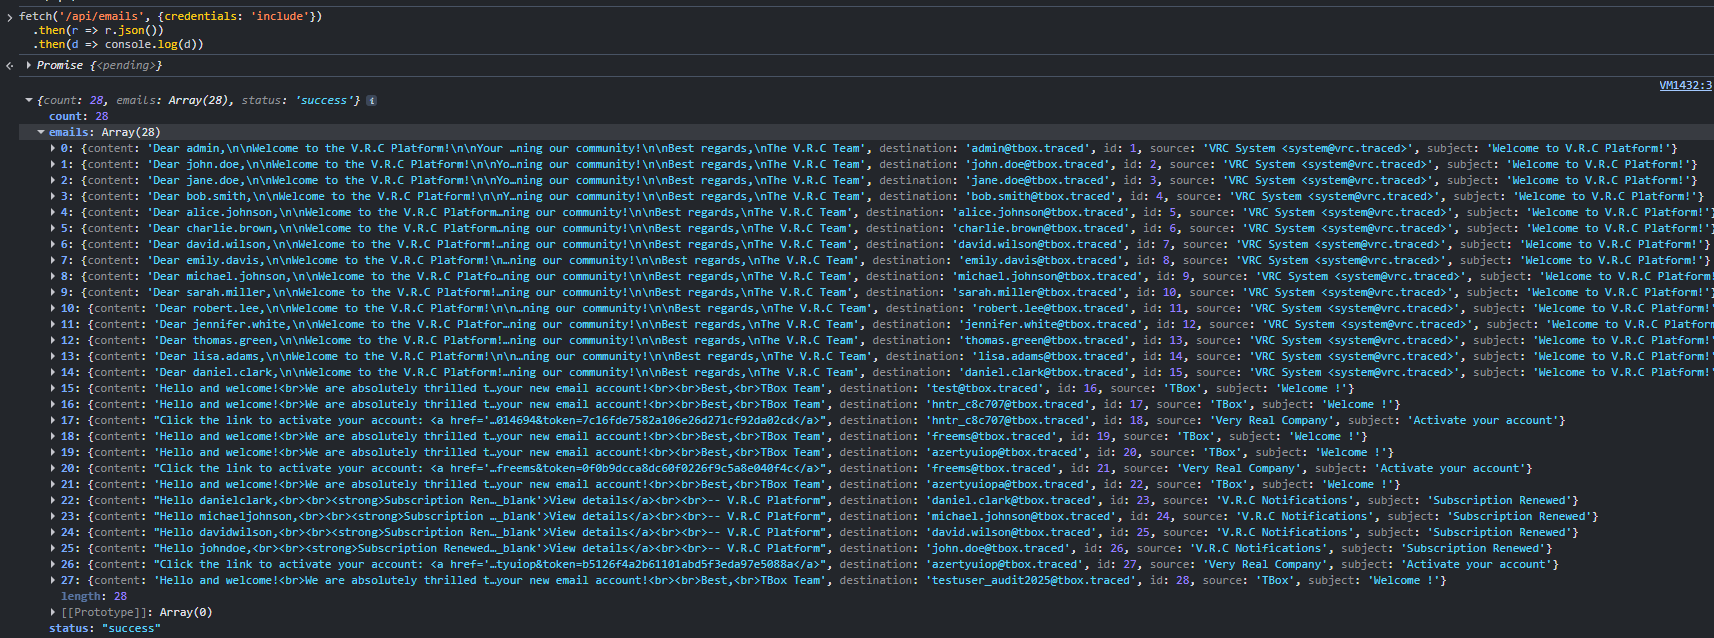
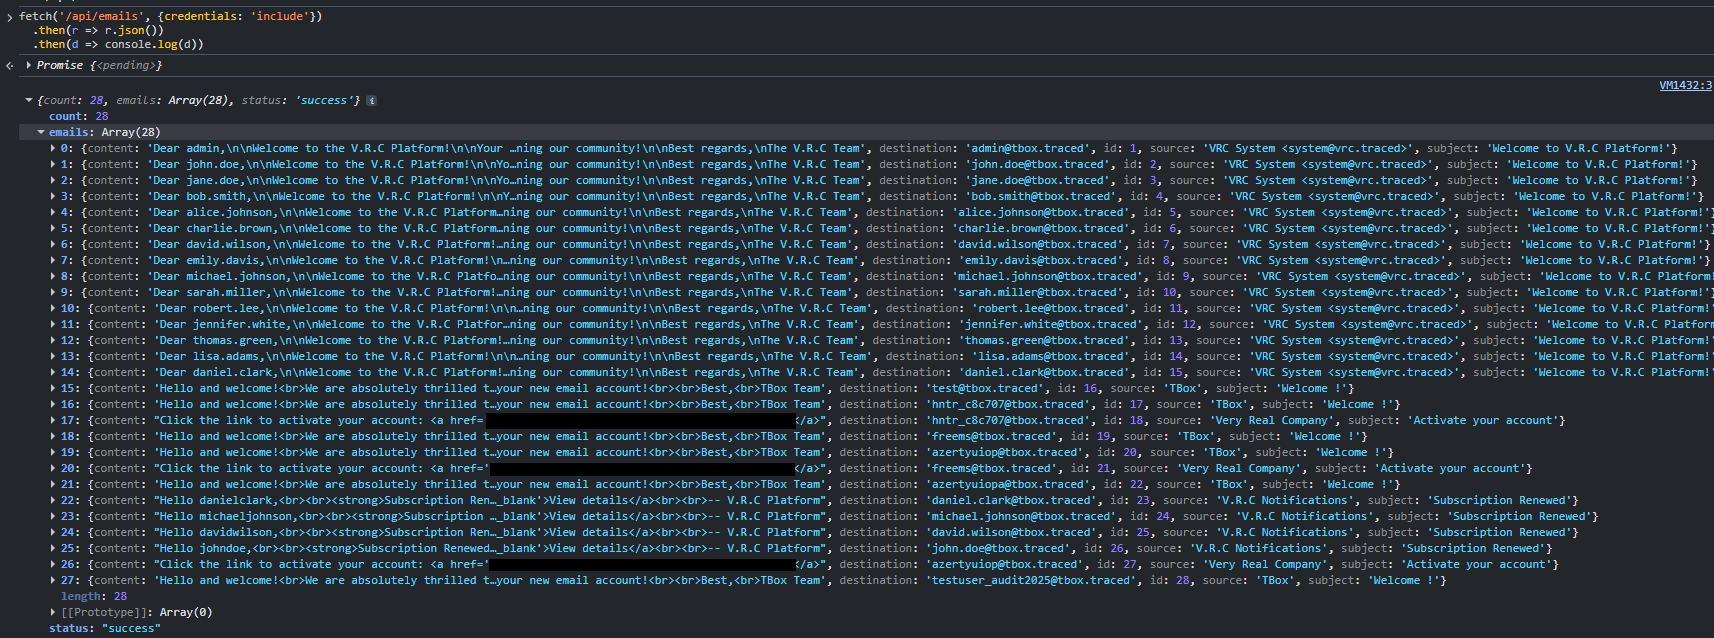
docs: restore webmail evidence and clarify unauthenticated admin compromise

Changed region(s): [[0.2783, 0.6254, 0.4638, 0.685], [0.2783, 0.8636, 0.4638, 0.8934], [0.2783, 0.7147, 0.4638, 0.7445]]

diff --git a/WOCShAck#5/WriteUps/IDOR_Webmail_Emails/IDOR_Webmail_Emails.md b/WOCShAck#5/WriteUps/IDOR_Webmail_Emails/IDOR_Webmail_Emails.md
@@ -1,17 +1,22 @@
 # Description
 
-Missing Access Control (CWE-306 / CWE-639) in the TrackBox webmail API (`API.py:101-139`). The endpoint exposes email contents without enforcing authentication or mailbox-level authorisation. Additional manual validation on the challenge instance confirmed unauthenticated access.
+Missing Access Control (CWE-306 / CWE-639) on the TrackBox webmail endpoint `GET /api/emails` (`API.py:101-139`).
 
-The V.R.C welcome system includes plaintext login credentials in welcome emails. The reported vulnerability therefore exposes sensitive authentication information. Additional manual validation confirmed the compromise of the test account named `admin` on the main V.R.C application.
+The endpoint exposes all stored mailboxes without enforcing authentication or mailbox-level authorisation. Unauthenticated access has been confirmed both directly and through BunkerWeb.
+
+The V.R.C welcome system includes plaintext login credentials in welcome emails. These messages expose sensitive authentication information, including credentials associated with seeded accounts.
+
+The exposed credentials of the seeded `admin` superuser were confirmed to be valid, resulting in demonstrated administrative account compromise on the main V.R.C application.
+
+Account-activation tokens are also present in the exposed email contents.
 
 # Exploitation
 
-| Step | Observation | Result |
-|------|-------------|--------|
-| 1 | Authentication controls evaluated. | Unauthenticated access confirmed. |
-| 2 | Mailbox isolation evaluated. | Cross-account data exposure confirmed. |
-| 3 | Exposed email contents reviewed. | Sensitive authentication information disclosed. |
-| 4 | Account security impact evaluated. | Test account compromise confirmed on the main V.R.C application. |
+| Step | Action | Result |
+|------|--------|--------|
+| 1 | Call `GET /api/emails` directly — no signup or login needed. | All emails of all users returned (endpoint has no auth check). |
+| 2 | (Optional) Sign up at `/signup` and log in at `/connect`. | Not required — the endpoint is fully unauthenticated. |
+| 3 | Extract the admin welcome email's password; log in to the main app. | Credential harvest complete; Admin takeover. |
 
 # PoC
 
@@ -22,7 +27,11 @@ fetch('/api/emails', {credentials:'include'}).then(r=>r.json()).then(console.log
 // {"count":28,"emails":[...all users...],"status":"success"}
 ```
 
-![Mailbox contents returned during testing](dump_email.png)
+![Cross-account mailbox disclosure](dump_email.png)
+
+The response contains 28 email messages belonging to multiple users in the tested instance. The number of returned messages depends on the stored mailbox contents.
+
+Runtime testing confirmed that no authenticated session is required to access the stored mailbox contents.
 
 **2. Exposure of sensitive authentication information:**
 
@@ -31,26 +40,37 @@ GET /api/emails?user=admin HTTP/1.1
 Host: webmail.<TARGET>
 Cookie: Id=<any_valid_session>
 
-{"count":1,"emails":[{"content":"...Password: X#9kLm$P2v@nQ8w!ZjRe...","destination":"admin@tbox.traced"}]}
+{"count":1,"emails":[{"content":"...Password: [REDACTED]...","destination":"admin@tbox.traced"}]}
 ```
 
-![Sensitive account information exposed during testing](admin_creds.png)
+![Plaintext administrative credentials exposed in a welcome email — password redacted](admin_credentials.png)
 
-**3. Confirmed account compromise on the main V.R.C application:**
+The exposed welcome email contains plaintext login credentials associated with the seeded V.R.C superuser. The password value has been redacted from the evidence.
 
-![Authenticated session on the main V.R.C application](VRC_admin_connected.png)
+**3. Confirmed administrative account compromise:**
 
-Additional manual validation confirmed unauthenticated access and cross-account mailbox exposure. All tests were performed on the WOCShAck#5 challenge instance.
+![Authenticated admin session in TrackBox](connected_admin.png)
+
+![Authenticated admin session on the main V.R.C application](VRC_admin_connected.png)
+
+Administrative account compromise was confirmed on the main V.R.C application.
+The exposed email contents also include account-activation tokens for pending registrations.
+
+Runtime testing through BunkerWeb confirmed the same unauthenticated disclosure over HTTP and HTTPS.
+
+ModSecurity with CRS 4.26 was operating in detection mode. No rules were triggered during the reported tests, including outbound data-leak detection, and the anomaly score remained at 0.
+
+Blocking mode was not tested.
 
 # Risk
 
 | Dimension | Impact |
 |-----------|--------|
-| Confidentiality | Unauthorised disclosure of private email contents and sensitive authentication information. |
-| Integrity | Account compromise confirmed during manual validation on the challenge instance. |
-| Availability | Potential impact following account compromise; no direct service disruption demonstrated. |
+| Confidentiality | Unauthenticated disclosure of all stored mailbox contents, including plaintext login credentials and account-activation tokens. |
+| Integrity | Demonstrated compromise of the seeded V.R.C superuser account and exposure of other accounts to unauthorised access. |
+| Availability | Administrative account compromise enables privileged actions that may affect service availability. No direct service disruption was demonstrated. |
 
-Overall severity: **Critical (business impact)** — unauthorised disclosure of sensitive mailbox contents and demonstrated account compromise.
+Overall severity: **Critical** — unauthenticated disclosure of sensitive mailbox contents leading to demonstrated administrative account compromise on the main V.R.C application.
 
 # Remediation
 
